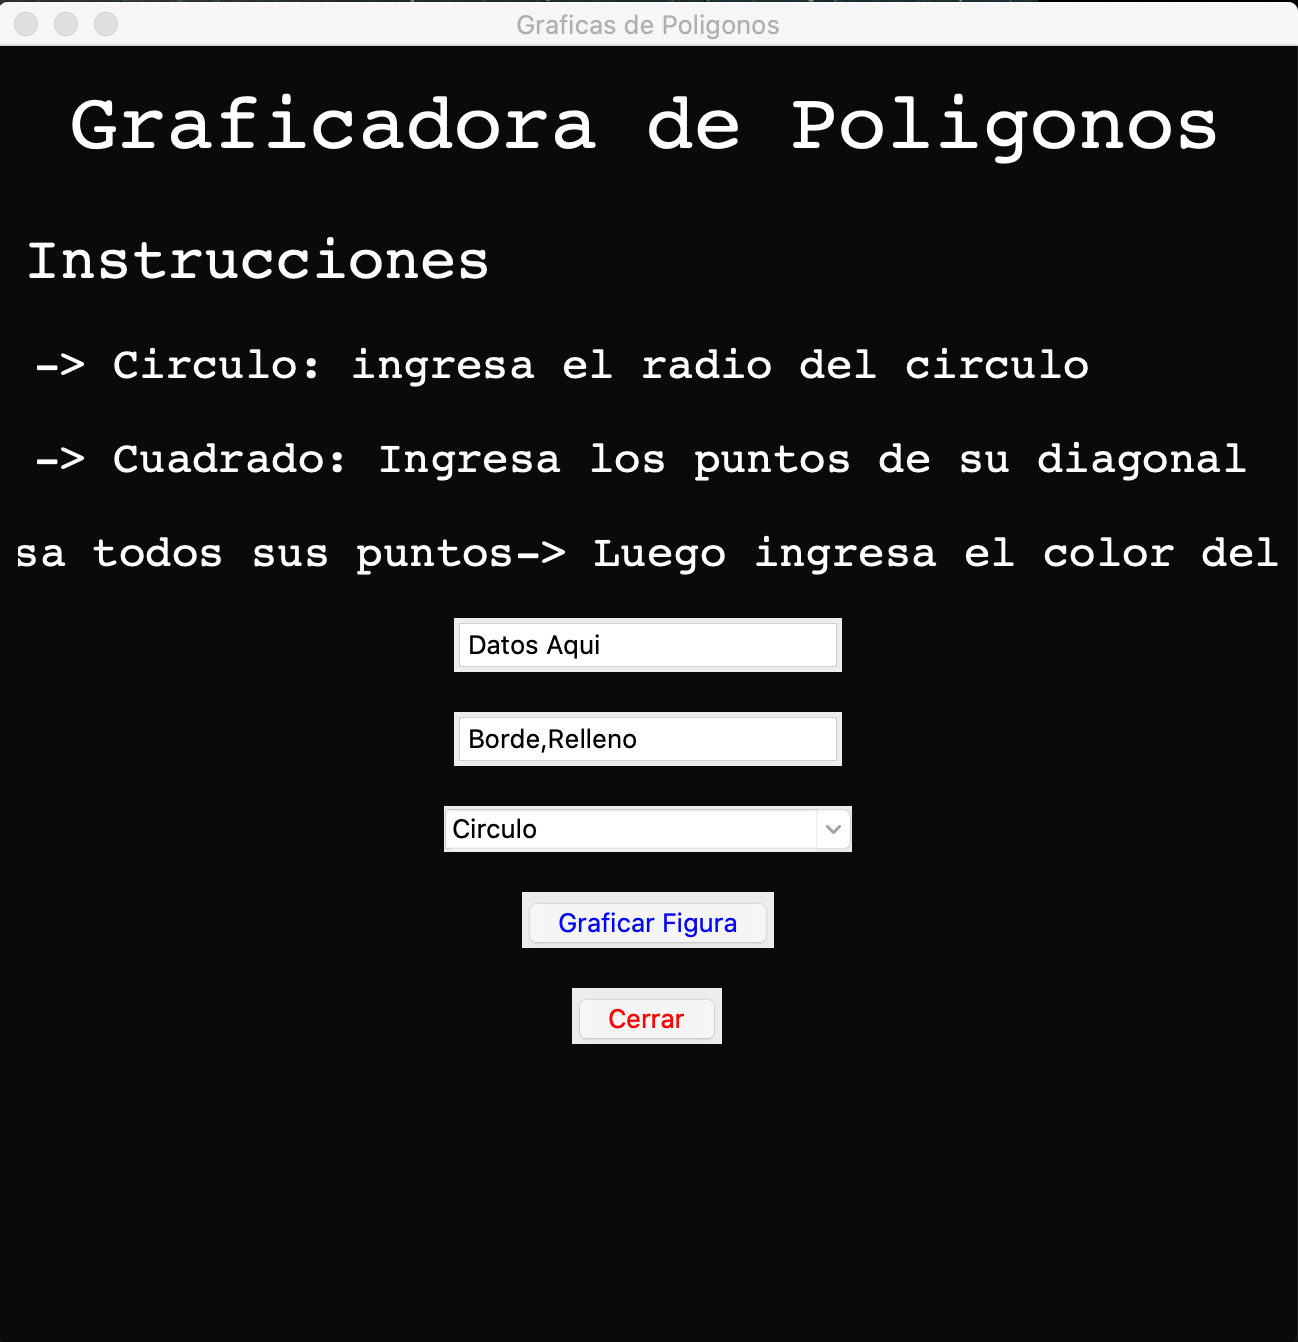
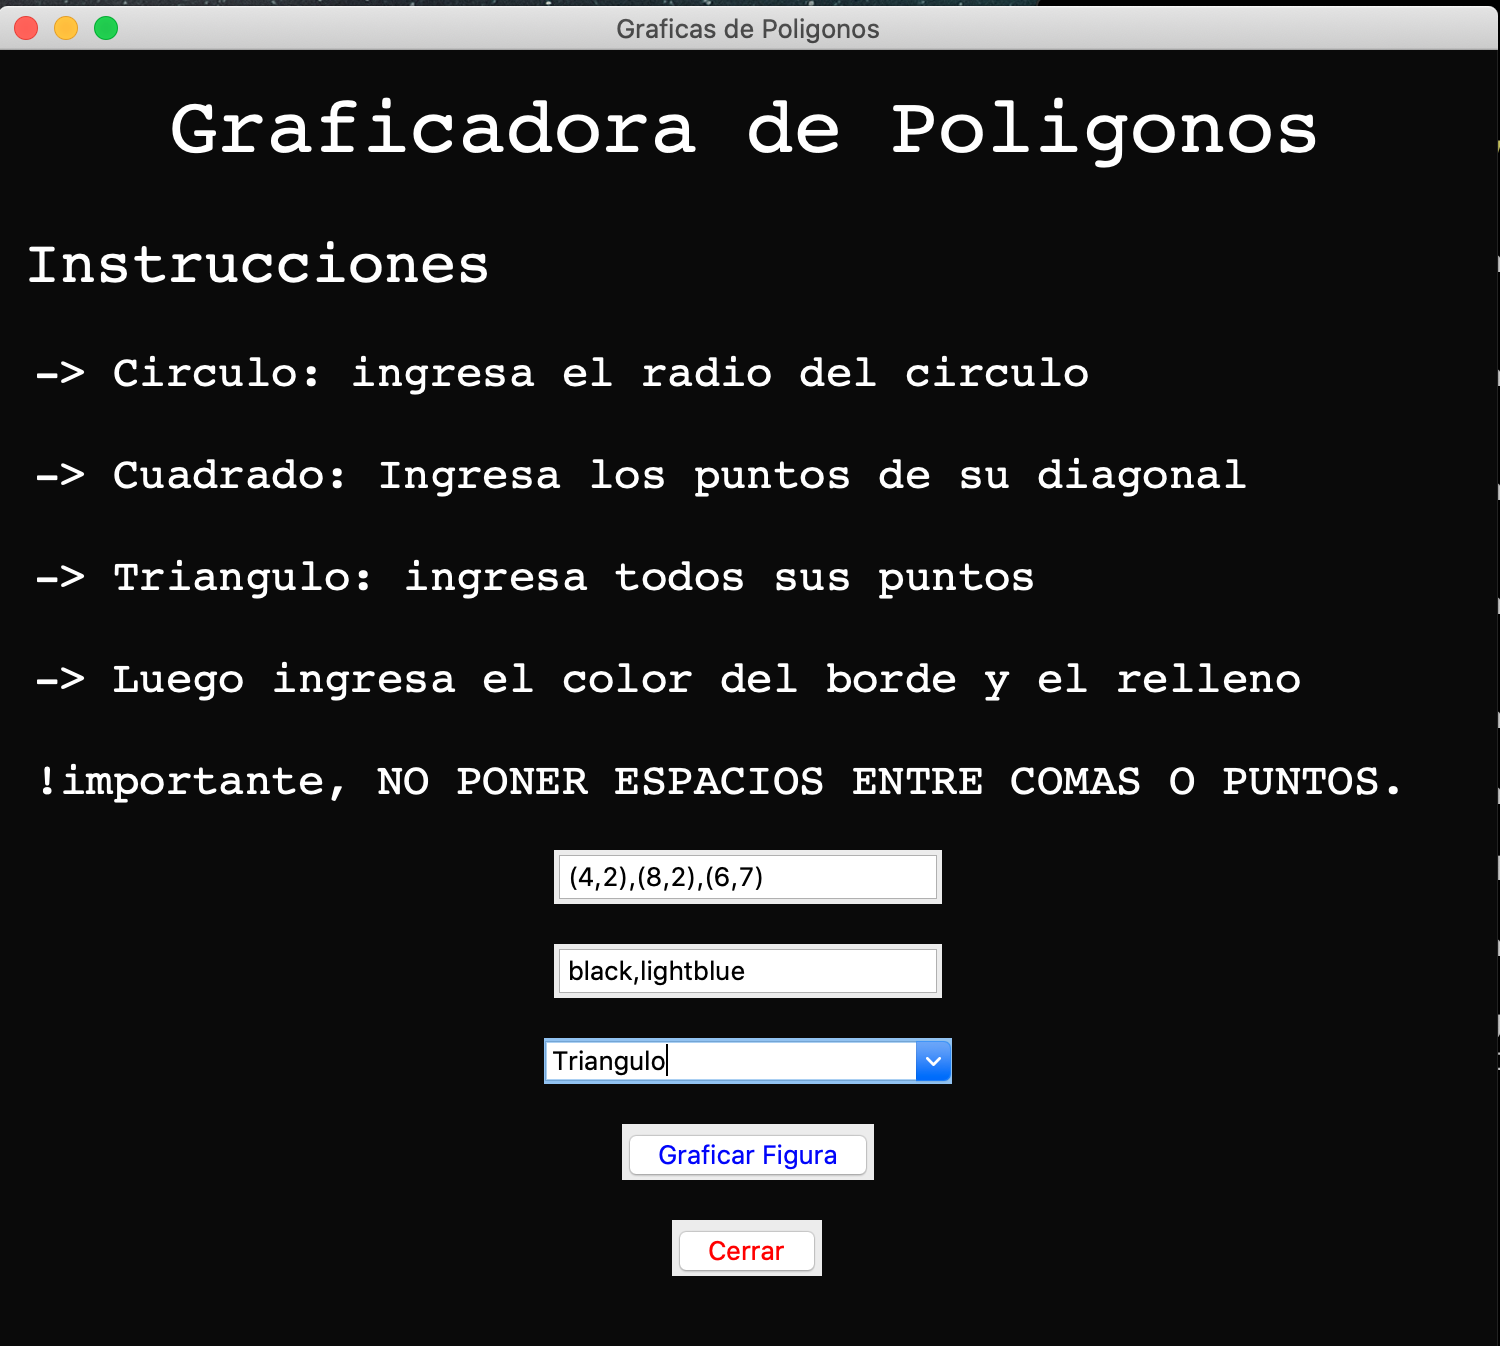
Added some corrections

diff --git a/main.py b/main.py
@@ -67,7 +67,7 @@ if __name__ == '__main__':
 	fg = 'white'
 	window=tk.Tk()
 	window.title("Graficas de Poligonos")
-	window.geometry('650x650')
+	window.geometry('750x700')
 	window.configure(background=bg)
 	# puente de variables para el resultado
 	bridge = tk.StringVar()
@@ -84,13 +84,14 @@ if __name__ == '__main__':
 
 	labs = ['-> Circulo: ingresa el radio del circulo',
 			'-> Cuadrado: Ingresa los puntos de su diagonal',
-			'-> Triangulo: ingresa todos sus puntos'
-			'-> Luego ingresa el color del borde y el relleno']
+			'-> Triangulo: ingresa todos sus puntos',
+			'-> Luego ingresa el color del borde y el relleno',
+			'!importante, NO PONER ESPACIOS ENTRE COMAS O PUNTOS.']
 
 	for lab in labs:
 		label = tk.Label(window, text=lab, bg=bg, fg=fg)
 		label.config(font=("Courier", 22))
-		label.pack(padx=10,pady=4,ipadx=5,ipady=5, anchor='w')
+		label.pack(padx=10,pady=6,ipadx=5,ipady=5, anchor='w')
 
 	##################################### entrada de texto y menu
 	

diff --git a/README.md b/README.md
@@ -9,7 +9,7 @@ This is a window were you can insert information to **plot a figure**.
 * **tkinter**
 
 
-## The instructions are quite easy:
+## The instructions:
 
 * Select the figure you want to plot
 * Then insert the numbers that are required
@@ -21,3 +21,36 @@ This is a window were you can insert information to **plot a figure**.
 
 ![Interface Picture](./images/interface.png)
 ![Plot Picture](./images/plot.png)
+
+# Funcionalidad [Spanish]
+
+El proyecto se **dividió en tres módulos** de forma que su arquitectura brinde una mejor organización. La funcionalidad de cada archivo o módulo es la siguiente:
+
+## Figuras.py
+
+De este archivo provienen las clases para cada figura, las clases de nombre `Circulo, Cuadrado y Triangulo` y las tres reciben la herencia de una clase base llamada `Figura cuyos atributos son los colores de relleno y de contorno de la figura`. Además algunas clases tienen métodos privados como los de **__punto_medio** o **__distancia**, los cuales sirven para algunos cálculos en el área o perímetro de la figura. Todas las clases de las figuras tienen cuatro métodos:
+
+* Los de obtener **perímetro y área** del polígono, los cuales dependen de la clase en la que se encuentren ya que los procedimientos para obtener estos números dependen del polígono.
+* Uno llamado **plot** que lo que hace es `retornar en una tupla todos los datos numéricos (un conjunto de puntos X,Y)` para realizar el plot y además `retorna los colores de relleno y de contorno`.
+* Uno de sobrecarga **__str__** el cual lo usé para ajustar el título del plot, en el cual se contendrían el nombre del polígono así como su área y su perímetro.
+
+Además, vale recalcar que cada clase se instancia con algunos datos diferentes, aparte de lo que vienen siendo los colores del relleno y contorno del plot, estos son los datos numéricos:
+* Para el **Circulo** se requiere pasar únicamente el valor de su radio.
+* Para el **Cuadrado** se requieren solamente los valores de los dos puntos de su diagonal (inclinada hacia la derecha). Es decir, solo un par de puntos.
+* Para el **Triangulo** se requieren los tres puntos de sus vértices.
+
+## plot.py
+Este módulo solo contiene una función llamada **figura**, la cual se usa para plotear las figuras indicadas por el usuario. La función recibe dos parámetros, mismos que son brindados directamente por las clases de las figuras:
+
+* data: data es el parámetro de tipo tupla o lista que `contiene las x, las y, color de contorno y color de relleno`. Este parámetro es brindado directamente por el método plot de las clases de las figuras.
+* title: que como su nombre lo dice `será el título del plot`, en el que se colocarán los valores de perímetro y área en un formato adecuado. Este parámetro es directamente dado de colocar la clase de la figura como parámetro de la función.
+
+## main.py
+Es el archivo principal del proyecto, en este se construye la ventana. Lo importante de este archivo son las funciones declaradas, las cuales se activan mediante el evento de presionado del botón de “graficar”. Son las siguientes:
+
+* read_colors(): esta función lo que hace es leer la entrada de texto de los colores, y pasa el texto a un formato de lista para que tengamos el color de relleno y contorno como los elementos de una lista.
+* read_points(): esta función lo que hace es leer los puntos colocados en la entrada de texto tales que los pase a un formato de lista donde cada elemento de esta sea un punto.
+* action(): esta función es la que se activa al presionar el botón. Lo que hace es primero comprobar que figura ha sido seleccionada. Después declara la clase de la figura indicada con los datos que esta requiere para finalmente usar la función de **figura()** y le pasamos los parámetros: **[clase_figura].plot() y [clase]** en los cuales vienen los datos para realizar el plot.
+
+
+
